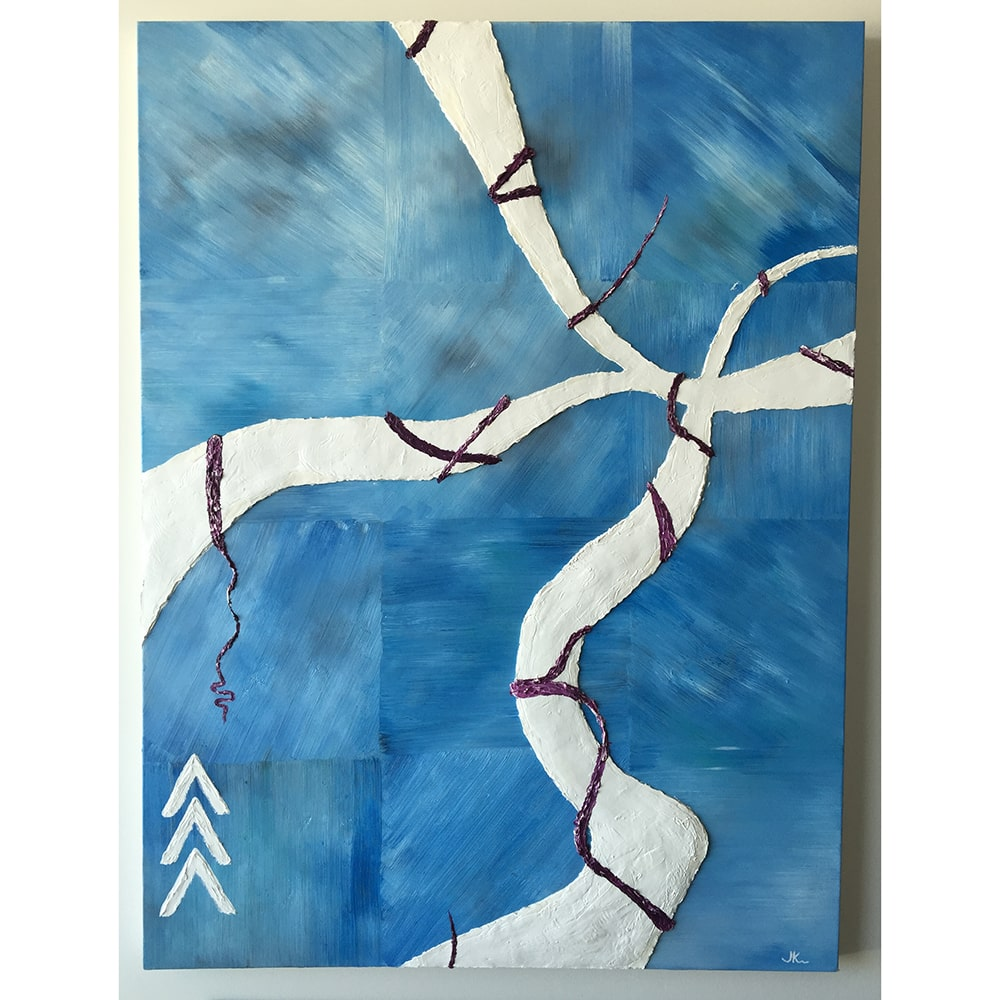
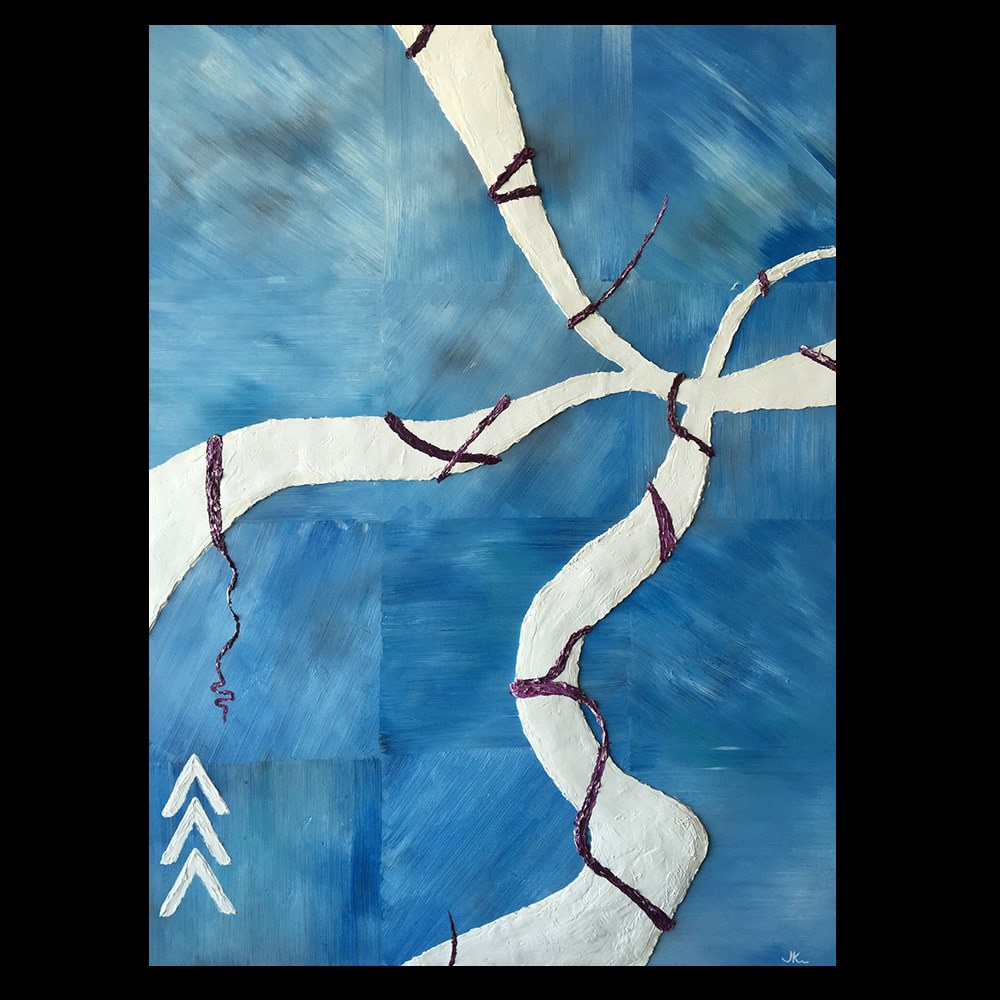
cleanup styling

diff --git a/pages/joe/art.js b/pages/joe/art.js
@@ -4,14 +4,6 @@ function Art() {
   const data = {
     art: [
       {
-        id: "a1",
-        title: "Spectrum",
-        image: "Spectrum-min.jpg",
-        medium: "oil paint",
-        dimensions: "20\"x24\"",
-        date: "10/2014",
-      },
-      {
         id: "a12",
         title: "In The Light Of Sunrise",
         image: "InTheLightOfSunrise-min.jpg",
@@ -20,12 +12,35 @@ function Art() {
         date: "12/2013",
       },
       {
-        id: "a13",
-        title: "Found",
-        image: "Found-min.jpg",
+        id: "a1",
+        title: "Spectrum",
+        image: "Spectrum-min.jpg",
+        medium: "oil paint",
+        dimensions: "20\"x24\"",
+        date: "10/2014",
+      },
+      {id: "a16",
+        title: "Many Directions, All Facing Up",
+        image: "ManyDirectionsAllFacingUp-min.jpg",
+        medium: "oil paint",
+        dimensions: "36\" x 48\"",
+        date: "10/2011",
+      },
+      {
+        id: "a20",
+        title: "Beautiful Disaster",
+        image: "BeautifulDisaster-min.JPG",
         medium: "oil paint",
         dimensions: "48\" x 36\"",
-        date: "02/2013",
+        date: "02/2009",
+      },
+      {
+        id: "a22",
+        title: "Random Insanity",
+        image: "RandomInsanity-min.jpg",
+        medium: "oil paint",
+        dimensions: "32\" x 24\"",
+        date: "05/2008",
       },
       {
         id: "a14",
@@ -42,13 +57,6 @@ function Art() {
         medium: "oil paint",
         dimensions: "48\" x 36\"",
         date: "06/2012",
-      },
-      {id: "a16",
-        title: "Many Directions, All Facing Up",
-        image: "ManyDirectionsAllFacingUp-min.jpg",
-        medium: "oil paint",
-        dimensions: "36\" x 48\"",
-        date: "10/2011",
       },
       {
         id: "a17",
@@ -75,21 +83,13 @@ function Art() {
         date: "01/2010",
       },
       {
-        id: "a20",
-        title: "Beautiful Disaster",
-        image: "BeautifulDisaster-min.JPG",
+        id: "a13",
+        title: "Found",
+        image: "Found-min.jpg",
         medium: "oil paint",
         dimensions: "48\" x 36\"",
-        date: "02/2009",
+        date: "02/2013",
       },
-      {
-        id: "a22",
-        title: "Random Insanity",
-        image: "RandomInsanity-min.jpg",
-        medium: "oil paint",
-        dimensions: "32\" x 24\"",
-        date: "05/2008",
-      }
     ]
   }
   return (

diff --git a/styles/Art.module.css b/styles/Art.module.css
@@ -6,20 +6,31 @@
   padding: 0;
   width: 100%;
 }
-.art{
-  background: #FFF;
-  border-radius: 8px;
-  color: #263238;
+.section{
+  background: #000;
+}
+.arts{
   display: block;
   float: left;
-  margin: 20px 20px 100px 0;
+  margin: 0 0 100px 0;
+  padding: 0;
+  position: relative;
+  width: 100%;
+}
+.art{
+  border: 5px #263238 solid;
+  border-radius: 6px;
+  color: #FFF;
+  display: block;
+  float: left;
+  margin: 30px 30px 0 0;
   padding: 10px;
   position: relative;
-  width: calc(25% - 10px);
+  width: calc(33% - 30px);
 }
-.art:nth-child(2n+2){
+/*.art:nth-child(4n+1){
   margin: 20px 0 0 0;
-}
+}*/
 .image{
   border-radius: 6px;
   clear: both;
@@ -42,7 +53,6 @@
 }
 .tags{
   clear: both;
-  color:#263238;
   display: block;
   float: left;
   margin: 0;
@@ -50,9 +60,9 @@
   width: 100%;
 }
 .tag{
-  background: #eceff1;
-  border-radius: 8px;
-  color:#263238;
+  background: #263238;
+  border-radius: 6px;
+  color:#FFF;
   display: block;
   float: left;
   font:normal 10px/20px 'robotoregular', Helvetica, Arial;
@@ -66,6 +76,7 @@
 }
 @media (max-width: 800px) {
   .art{
-    width: calc(50% - 10px);
+    margin: 20px 0 0 0;
+    width: 100%;
   }
 }

diff --git a/components/Joe/Arts.js b/components/Joe/Arts.js
@@ -2,7 +2,7 @@ import Art from './Art'
 import styles from '../../styles/Art.module.css'
 export default function Arts(props) {
   return (
-    <section id="art">
+    <section className={styles.section} id="art">
       <img alt="street art from Merida Mexico" className={styles.hero_image} src="/image/joe/art2-min.jpg" />
       <div className="content_wrap">
         <div className="section_title">
@@ -10,7 +10,7 @@ export default function Arts(props) {
             Art Work
           </div>
         </div>
-        <div className={styles.photos}>
+        <div className={styles.arts}>
           {props.data.map(item => (
             <Art key={item.id} data={item} />
           ))}

diff --git a/components/Joe/Art.js b/components/Joe/Art.js
@@ -8,10 +8,6 @@ export default function Art(props) {
       </div>
       <div className={styles.tags}>
         <div className={styles.tag}>
-          <i className="far fa-calendar-alt"></i>
-          <span className={styles.tag_text}>{props.data.date}</span>
-        </div>
-        <div className={styles.tag}>
           <i className="fa-solid fa-paintbrush"></i>
           <span className={styles.tag_text}>{props.data.medium}</span>
         </div>

diff --git a/styles/Jobs.module.css b/styles/Jobs.module.css
@@ -17,10 +17,11 @@
 .job{
   background: #eceff1;
   border-radius: 8px;
+  box-shadow: rgba(0, 0, 0, 0.19) 0px 10px 20px, rgba(0, 0, 0, 0.23) 0px 6px 6px;
   color: #263238;
   display: block;
   float: left;
-  margin: 20px 0 0 0;
+  margin: 30px 0 0 0;
   padding: 10px;
   position: relative;
   width: 100%;

diff --git a/styles/globals.css b/styles/globals.css
@@ -210,7 +210,7 @@ p{
   font: normal 20px/40px Helvetica, Arial;
   height: 40px;
   margin: 0 10px 0 0;
-  padding: 3px 0 0 0;
+  padding: 0;
   text-align: center;
   text-decoration: none;
   transition: 0.25s;

diff --git a/styles/Accolades.module.css b/styles/Accolades.module.css
@@ -17,6 +17,7 @@
 .accolade{
   background: #eceff1;
   border-radius: 8px;
+  box-shadow: rgba(0, 0, 0, 0.19) 0px 10px 20px, rgba(0, 0, 0, 0.23) 0px 6px 6px;
   color: #263238;
   display: block;
   float: right;

diff --git a/styles/FooterJoe.module.css b/styles/FooterJoe.module.css
@@ -60,6 +60,6 @@
   .legal {
     clear: both;
     margin: 20px 0 20px 30px;
-    width: 100%;
+    width: calc(100% - 30px);
   }
 }
